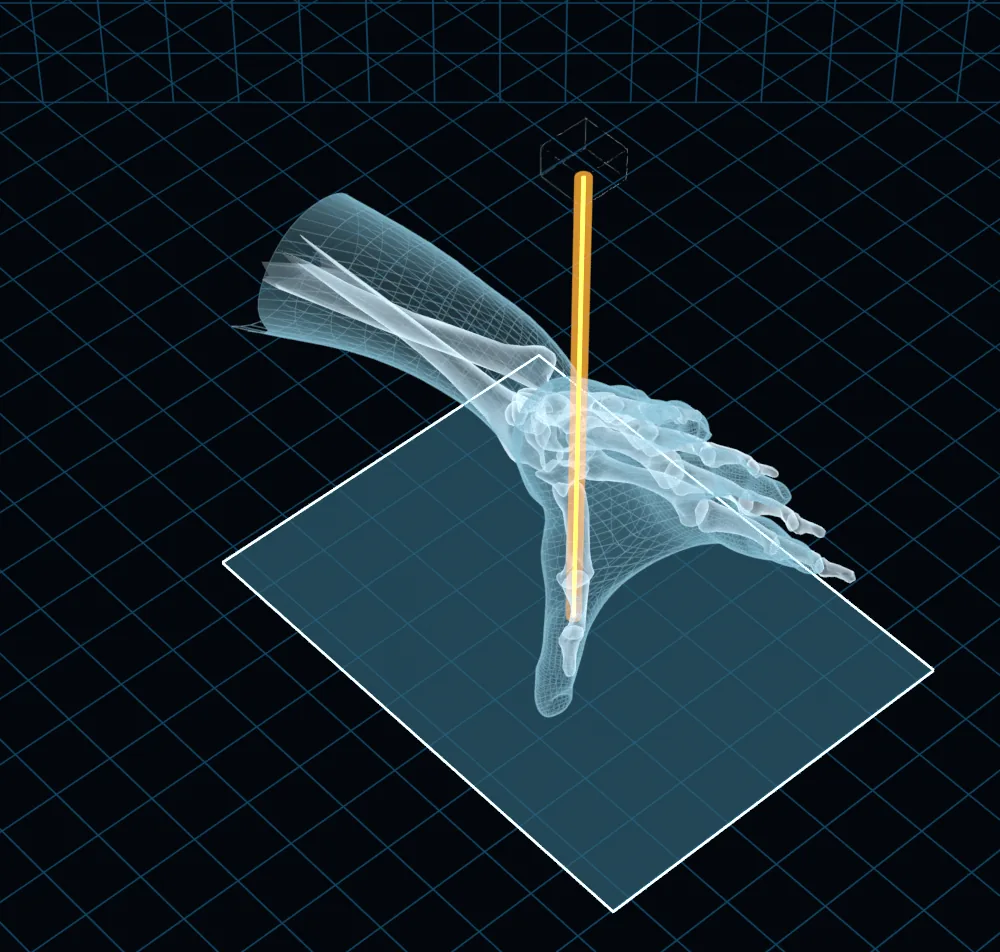
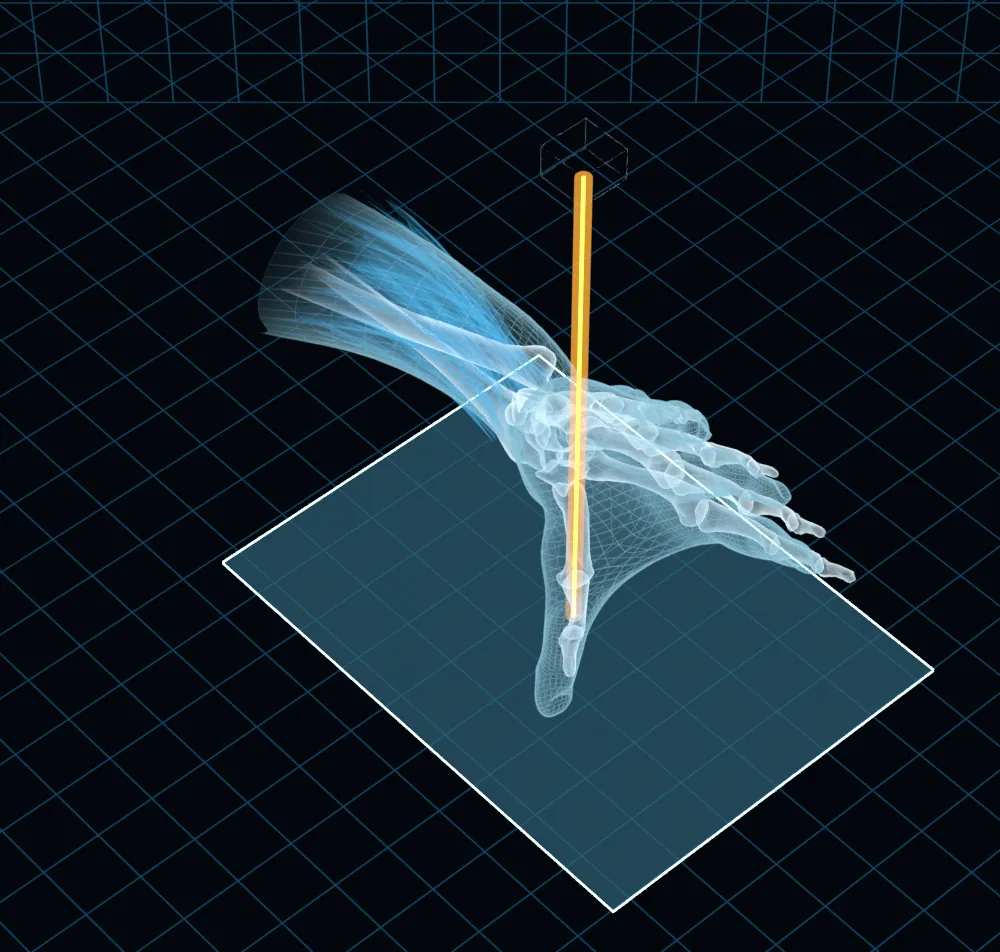
Merrill: holograma de miembro superior con músculos y cortes desvanecidos (#41)
* Merrill: ilustraciones en estilo holograma para los pares de rutina de miembro superior

15 fichas (dedos, pulgar, mano, muñeca, antebrazo, codo, húmero y hombro) con
imagen .webp en ilustraciones/merrill/. La fuente declara formato "webp" y la
app y preparar.mjs usan esa extensión en lugar de .svg. Sin verificar.

Claude-Session: https://claude.ai/code/session_01DetBbHQdgXmmdDD1vMCrZi

* Merrill: holograma de miembro superior con músculos y cortes desvanecidos

Las 15 imágenes de los pares de rutina se rehacen con las partes blandas
(músculos) entre la piel y los huesos, los cortes desvanecidos y más resolución.

Claude-Session: https://claude.ai/code/session_01DetBbHQdgXmmdDD1vMCrZi

---------

Changed region(s): [[0.248, 0.1828, 0.558, 0.4569]]

diff --git a/sw-archivos.js b/sw-archivos.js
@@ -1,5 +1,5 @@
 // Generado por herramientas/preparar.mjs. No editar a mano.
-self.RG_VERSION = "ab7acb91fa";
+self.RG_VERSION = "4f7090f6e7";
 self.RG_ARCHIVOS = [
  "./",
  "config/calculadora.js",
@@ -264,21 +264,21 @@ self.RG_EXTRAS = {
  "ilustraciones/manos-ap-oblicua-norgaard--v1.svg": "180dc657",
  "ilustraciones/manos-ap-oblicua-norgaard--v2.svg": "e31cc980",
  "ilustraciones/merrill/.gitkeep": "e3b0c442",
- "ilustraciones/merrill/antebrazo-ap.webp": "89978035",
- "ilustraciones/merrill/antebrazo-lateral.webp": "2f082900",
- "ilustraciones/merrill/codo-ap.webp": "c86ffff7",
- "ilustraciones/merrill/codo-lateral.webp": "f2fa9ec6",
- "ilustraciones/merrill/dedos-lateral.webp": "efd9013c",
- "ilustraciones/merrill/dedos-pa.webp": "9257e6c5",
- "ilustraciones/merrill/hombro-ap.webp": "fd5ad75b",
- "ilustraciones/merrill/humero-ap-vertical.webp": "e010b113",
- "ilustraciones/merrill/humero-lateral-vertical.webp": "782d2883",
- "ilustraciones/merrill/mano-pa-oblicua.webp": "eaa9fbe2",
- "ilustraciones/merrill/mano-pa.webp": "2c46aafd",
- "ilustraciones/merrill/muneca-lateral.webp": "2e27a899",
- "ilustraciones/merrill/muneca-pa.webp": "a01d1037",
- "ilustraciones/merrill/pulgar-ap.webp": "bdaf6517",
- "ilustraciones/merrill/pulgar-lateral.webp": "a74b7ea8",
+ "ilustraciones/merrill/antebrazo-ap.webp": "caeb02ba",
+ "ilustraciones/merrill/antebrazo-lateral.webp": "1dc7c1c3",
+ "ilustraciones/merrill/codo-ap.webp": "d7b69f50",
+ "ilustraciones/merrill/codo-lateral.webp": "bbe7f71a",
+ "ilustraciones/merrill/dedos-lateral.webp": "da50f914",
+ "ilustraciones/merrill/dedos-pa.webp": "a7481f90",
+ "ilustraciones/merrill/hombro-ap.webp": "d9fe234d",
+ "ilustraciones/merrill/humero-ap-vertical.webp": "0fb42cdb",
+ "ilustraciones/merrill/humero-lateral-vertical.webp": "e99245a4",
+ "ilustraciones/merrill/mano-pa-oblicua.webp": "277425b4",
+ "ilustraciones/merrill/mano-pa.webp": "ec65dd90",
+ "ilustraciones/merrill/muneca-lateral.webp": "487b397c",
+ "ilustraciones/merrill/muneca-pa.webp": "91ad594f",
+ "ilustraciones/merrill/pulgar-ap.webp": "30ca022c",
+ "ilustraciones/merrill/pulgar-lateral.webp": "847563dc",
  "ilustraciones/muneca-desviacion-cubital--v1.svg": "d4a5b829",
  "ilustraciones/muneca-desviacion-cubital--v2.svg": "96e3c9a8",
  "ilustraciones/muneca-desviacion-radial.svg": "71e6512e",

diff --git a/sw.js b/sw.js
@@ -1,7 +1,7 @@
 // Service worker de RadioGuía: guarda toda la app en el dispositivo para usarla sin conexión.
 // La lista de archivos y la versión salen de sw-archivos.js, que genera herramientas/preparar.mjs
 // (la versión cambia sola cuando cambia cualquier archivo, y eso dispara la actualización).
-// versión: ab7acb91fa (la escribe herramientas/preparar.mjs; así este archivo cambia en cada versión y
+// versión: 4f7090f6e7 (la escribe herramientas/preparar.mjs; así este archivo cambia en cada versión y
 // cualquier navegador, aunque solo compare sw.js y no sw-archivos.js, se entera de que hay una actualización)
 importScripts("sw-archivos.js"); // define self.RG_VERSION, self.RG_ARCHIVOS y self.RG_EXTRAS
 const CACHE = "radioguia-" + self.RG_VERSION;
